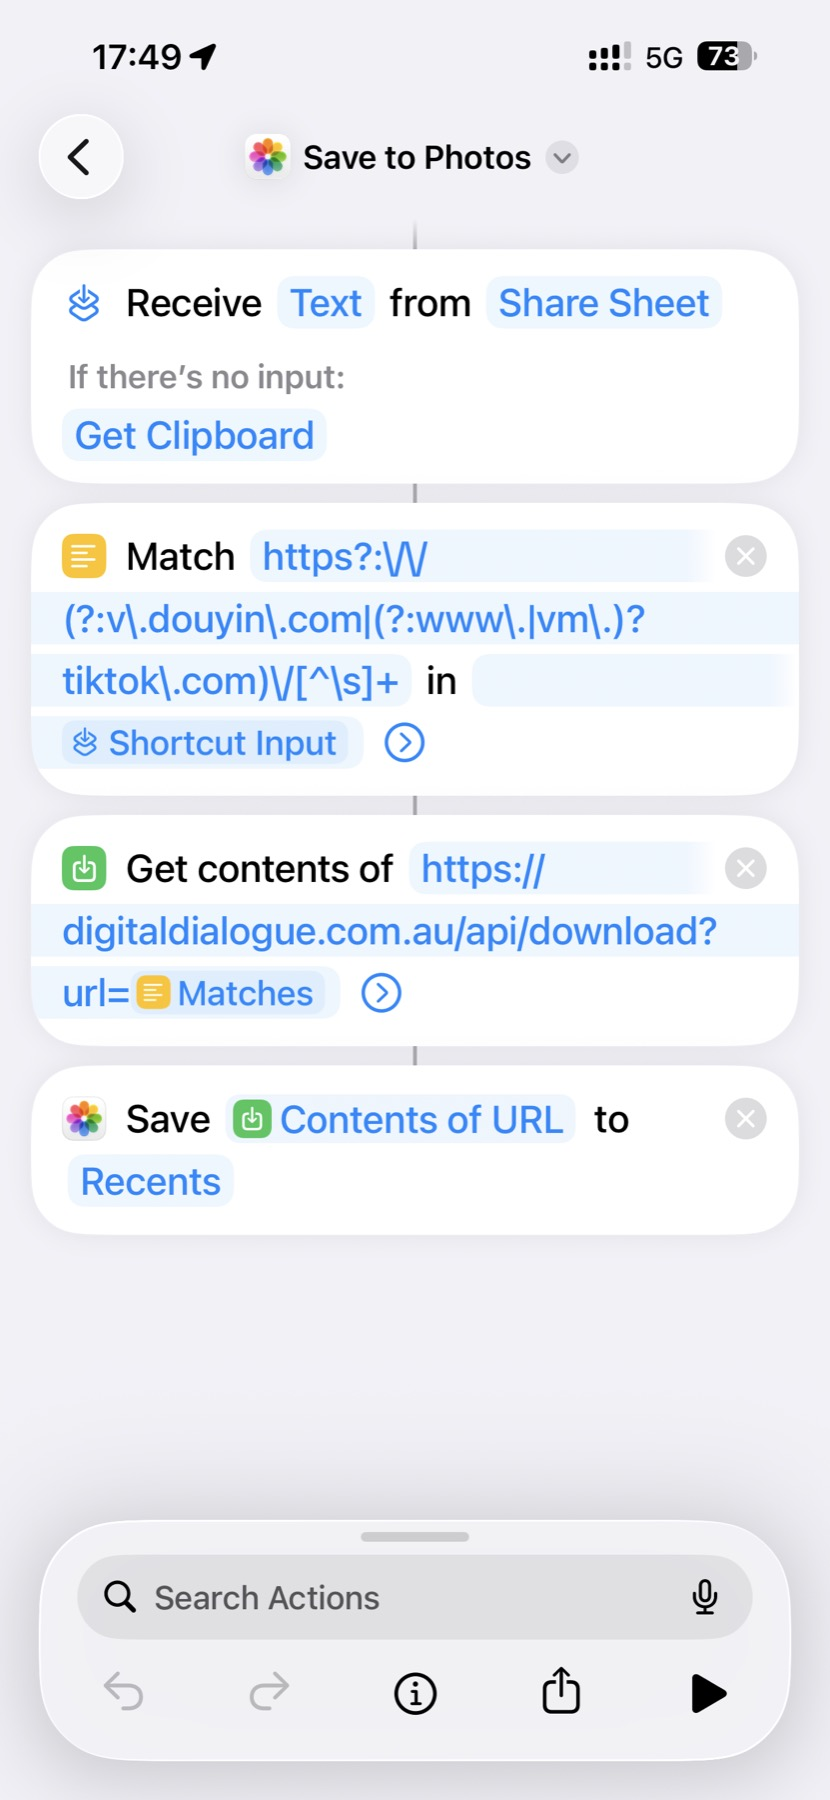
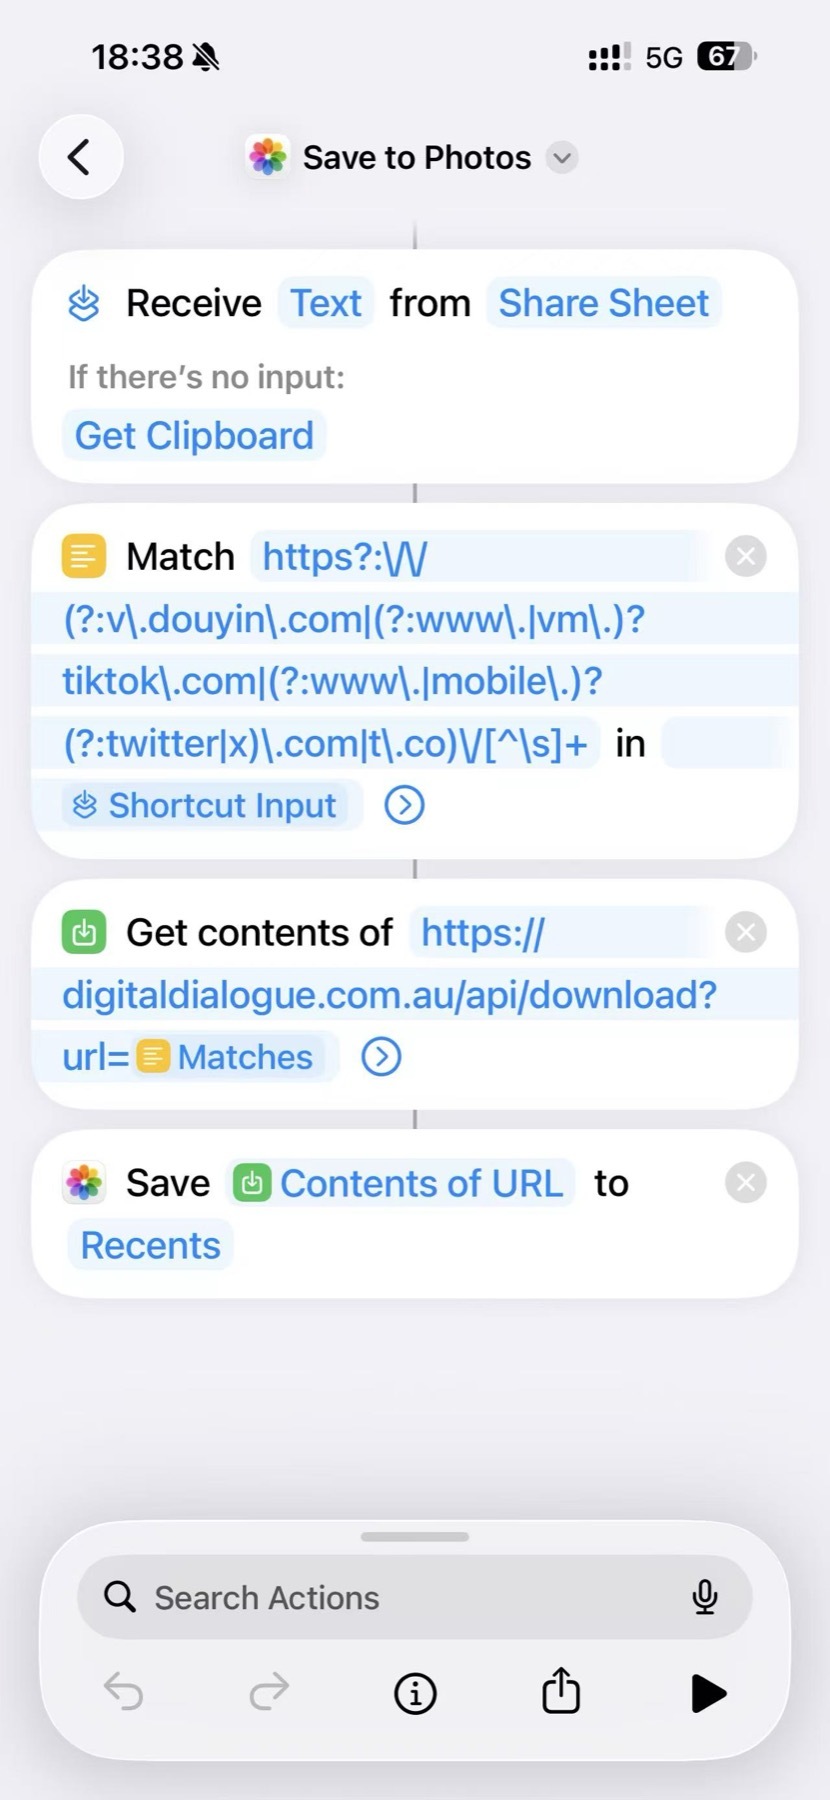
Add iCloud Shortcut share link for one-tap install
Building the Shortcut by hand requires getting half a dozen settings
right (especially the Share Sheet toggle in settings, which is not
an action and easy to miss — multiple users got stuck there). With the
share link, anyone can install the working triple-platform Shortcut
in two taps from Safari.

Restructured the README section so the one-tap install is the lead
recommendation; manual build instructions still present as fallback.

Also flag the iOS Photos sort-by-capture-date gotcha in the README
(saved video appears where its original capture date sits in Library,
not at the top — go to Albums → Recents to see it sorted by add date).

Updated the Shortcut screenshot to show the deployed triple-platform
regex (matches v.douyin.com / tiktok.com / twitter.com / x.com / t.co).

diff --git a/README.md b/README.md
@@ -75,44 +75,38 @@ The server 302-redirects to the CDN; the Shortcut's HTTP client follows the redi
   <img src="screenshots/ios-shortcut.jpg" width="320" alt="iOS Shortcut configuration">
 </p>
 
-Build a 4-action Shortcut exactly as shown above. On iPhone: open the **Shortcuts** app → tap **+** to create a new Shortcut.
+#### One-tap install (recommended)
 
-#### First: enable it in the Share Sheet (this is NOT an action)
+Open this link on your iPhone in **Safari** (not Chrome):
 
-Tap the **ⓘ info icon** at the bottom of the editor → toggle **Show in Share Sheet** on → for **Share Sheet Types** keep **only Text** checked and uncheck everything else (including URLs). Name it e.g. *Save to Photos*.
+→ **[icloud.com/shortcuts/677ab543c5894e50ad3c7acc0b9640ce](https://www.icloud.com/shortcuts/677ab543c5894e50ad3c7acc0b9640ce)**
 
-> ⚠ This is a gotcha — "Receive Input" is a Shortcut **setting**, not an action you can search for. If you skip it, the Shortcut won't appear in Douyin's share menu.
->
-> ⚠ **Accept Text, not URLs.** Douyin's share blob looks like `8.97 复制打开抖音… https://v.douyin.com/XXXX/ S@Y.MW YMW:/ 12/07`. If you accept URLs, iOS auto-extracts `S@Y.MW` as `mailto:S@Y.MW` and you'll hit the error *"URL is missing a hostname"* before your actions even run.
+Tap **Add Shortcut** → done. The Shortcut is named *Save to Photos* and is pre-wired with the regex below + every setting in place.
 
-#### Then: add these 4 actions in order
-
-**1. Receive Text from Share Sheet**
-- Action: *Receive input from Share Sheet*
-- Type: **Text**
-- If there's no input: **Get Clipboard** (so it also works when you copy a share link instead of tapping Share)
-
-**2. Match Text** (this is where the URL gets extracted)
-- Action: *Match Text*
-- Pattern: `https?:\/\/(?:v\.douyin\.com|(?:www\.|vm\.)?tiktok\.com|(?:www\.|mobile\.)?(?:twitter|x)\.com|t\.co)\/[^\s]+`
-- Input: **Shortcut Input**
-
-This regex pulls the Douyin / TikTok / X URL out of the mixed text blob (e.g. `8.97 ... https://v.douyin.com/XXXX/ S@Y.MW YMW:/ 12/07`). Without it the whole blob gets URL-encoded and the API can't parse anything.
-
-**3. Get Contents of URL**
-- URL: `https://digitaldialogue.com.au/api/download?url=` followed by the **Matches** variable from step 2
-- Method: **GET** (default; Shortcuts URL-encodes the appended variable automatically)
-
-**4. Save to Photo Album**
-- Action: *Save to Photo Album*
-- Input: **Contents of URL** from step 3
-- Album: **Recents** (or any album you prefer)
+> ⚠ **iOS Photos sorts the Library by capture date, not save date.** A video posted a week ago will land where last week's photos are, not at the top. To see what you just saved, look in **Photos → Albums → Recents** (sorted by add date) or scroll Library.
 
 #### Use it
 
 Open Douyin / TikTok / X → tap any video's **Share** button → swipe the Shortcuts row and pick yours → a few seconds later the video is in Photos. If you just have a share link on the clipboard, run the Shortcut from the home screen / widget instead.
 
-> ⚠ **Don't tap the ▶ Play button in the editor to test.** It runs without Share Sheet input, so step 1 silently falls through to Clipboard — if that doesn't contain a supported link you'll get a confusing error. Always test via the real share menu.
+> ⚠ **Don't tap the ▶ Play button in the Shortcuts editor to test.** It runs without Share Sheet input, so step 1 silently falls through to Clipboard — if that doesn't contain a supported link you'll get a confusing error. Always test via the real share menu.
+
+#### Building it manually (if you can't import the iCloud link)
+
+Open the **Shortcuts** app → tap **+** to create a new Shortcut.
+
+**First: enable Share Sheet in settings (NOT in actions).** Tap the **ⓘ info icon** at the bottom of the editor → toggle **Show in Share Sheet** on → for **Share Sheet Types** keep **only Text** checked and uncheck everything else (including URLs). Name it e.g. *Save to Photos*.
+
+> ⚠ "Receive Input" is a Shortcut **setting**, not an action you can search for. If you skip the toggle above, the Shortcut won't appear in any app's share menu.
+>
+> ⚠ **Accept Text, not URLs.** Douyin's share blob looks like `8.97 复制打开抖音… https://v.douyin.com/XXXX/ S@Y.MW YMW:/ 12/07`. If you accept URLs, iOS auto-extracts `S@Y.MW` as `mailto:S@Y.MW` and you'll hit *"URL is missing a hostname"*.
+
+Then add these 4 actions:
+
+1. **Receive Text from Share Sheet** — type Text; if no input → **Get Clipboard**.
+2. **Match Text** — pattern `https?:\/\/(?:v\.douyin\.com|(?:www\.|vm\.)?tiktok\.com|(?:www\.|mobile\.)?(?:twitter|x)\.com|t\.co)\/[^\s]+` against **Shortcut Input**.
+3. **Get Contents of URL** — `https://digitaldialogue.com.au/api/download?url=` + **Matches** variable. Method: **GET**.
+4. **Save to Photo Album** — input **Contents of URL** → album **Recents**.
 
 ### `/api/info` — same zero bandwidth, but returns JSON if you want finer control
 
